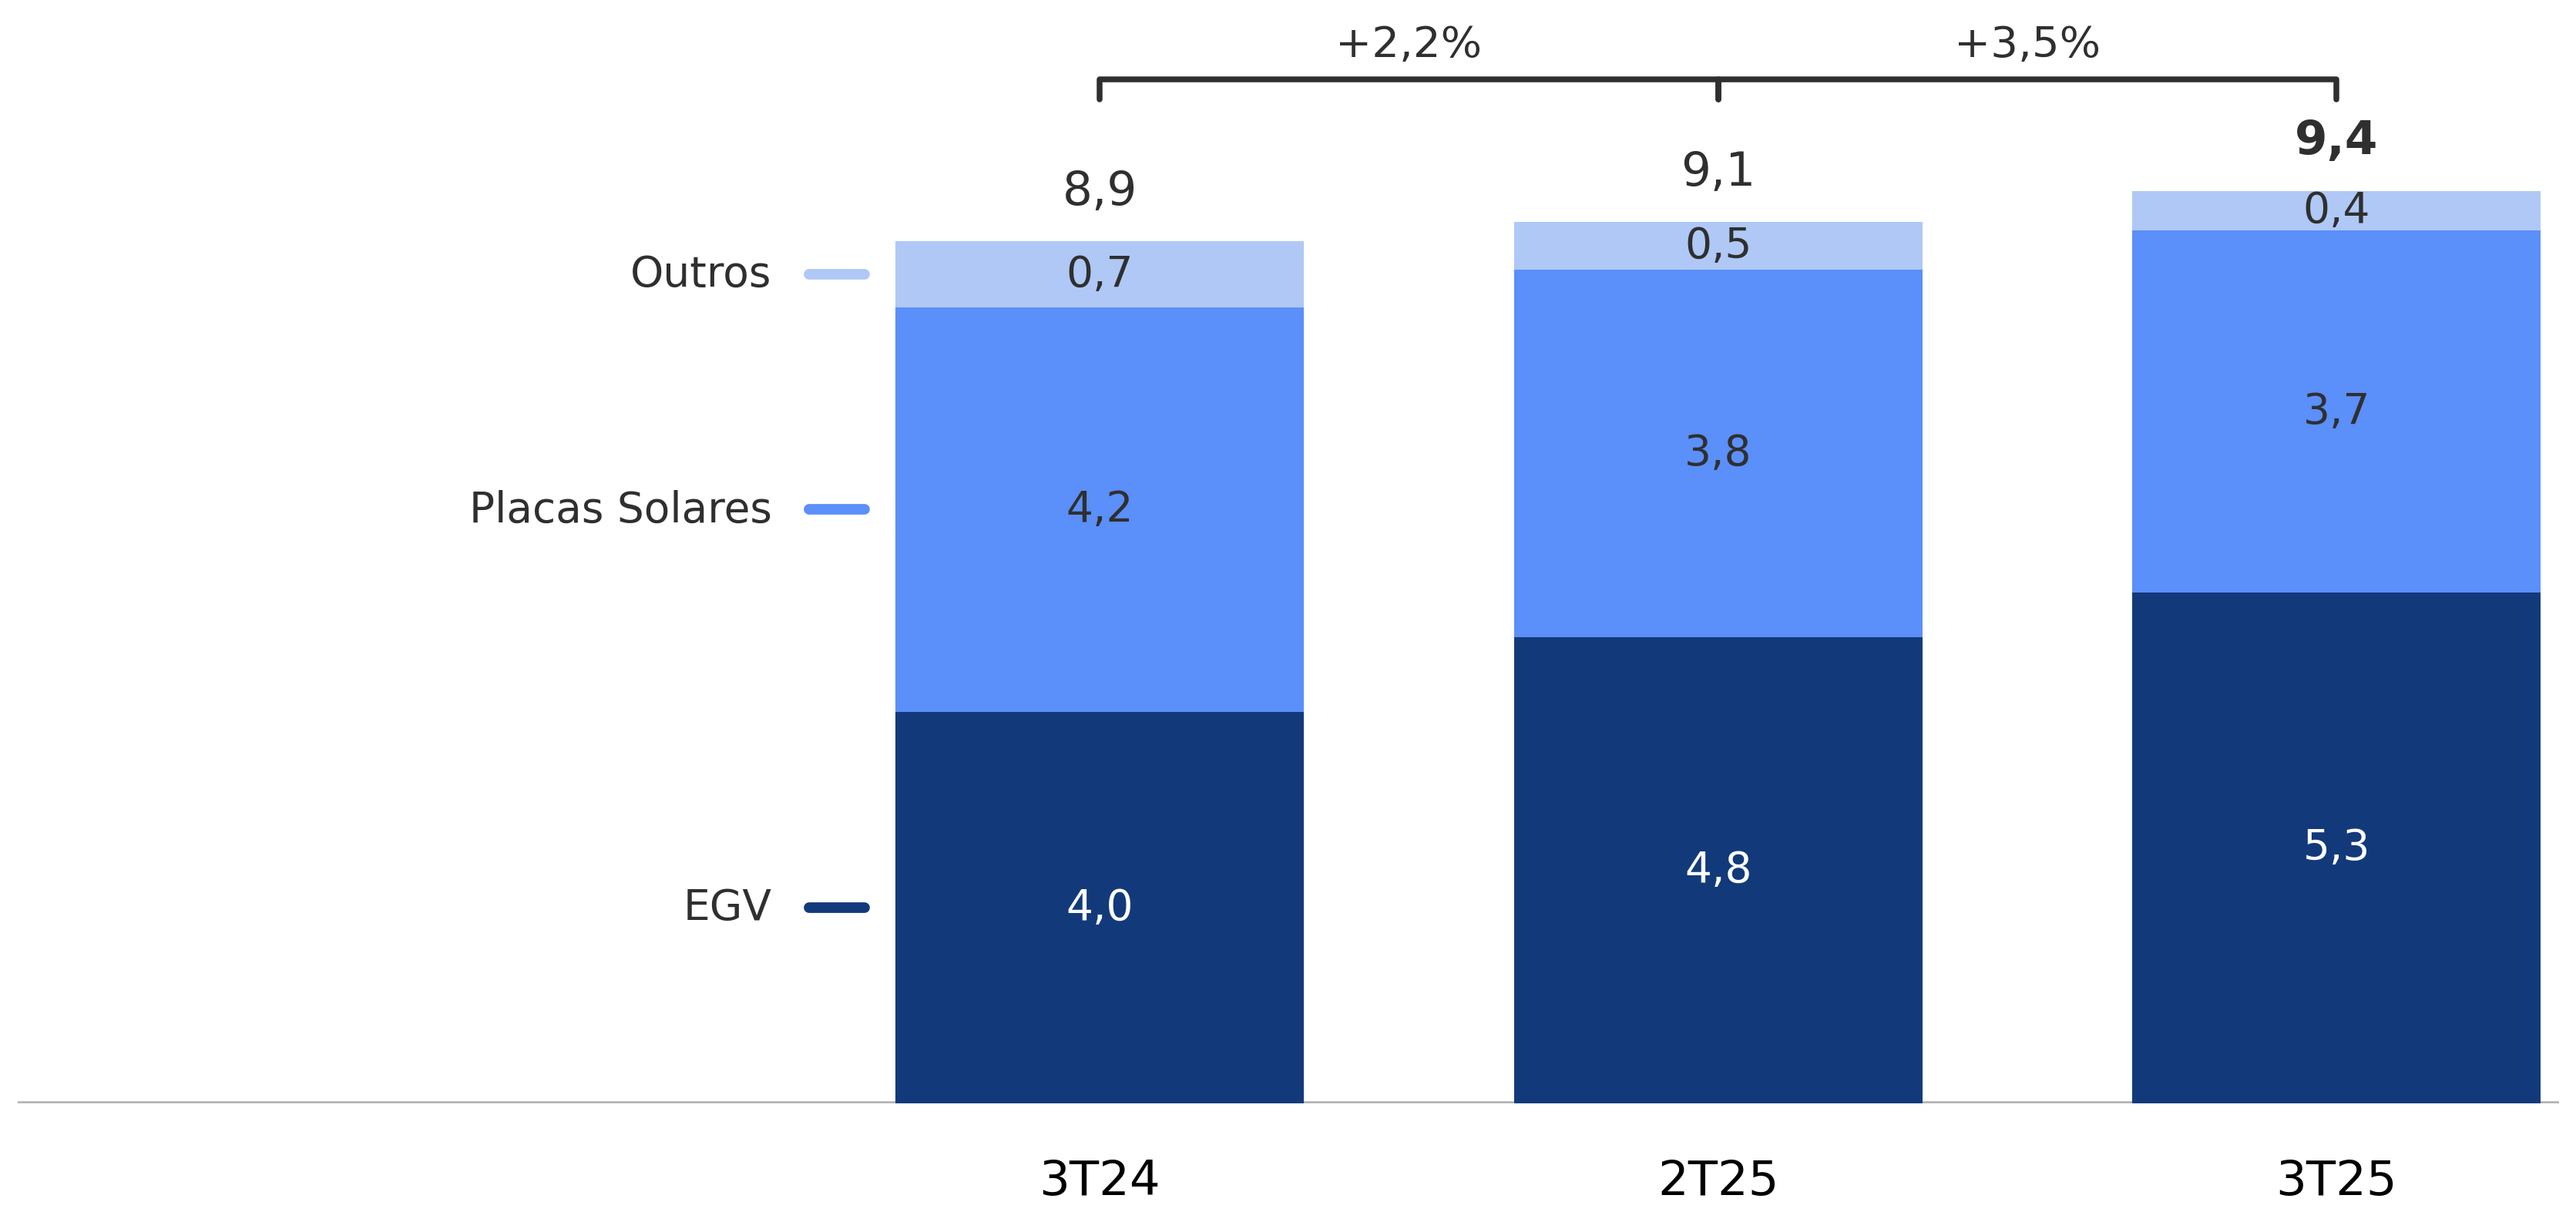
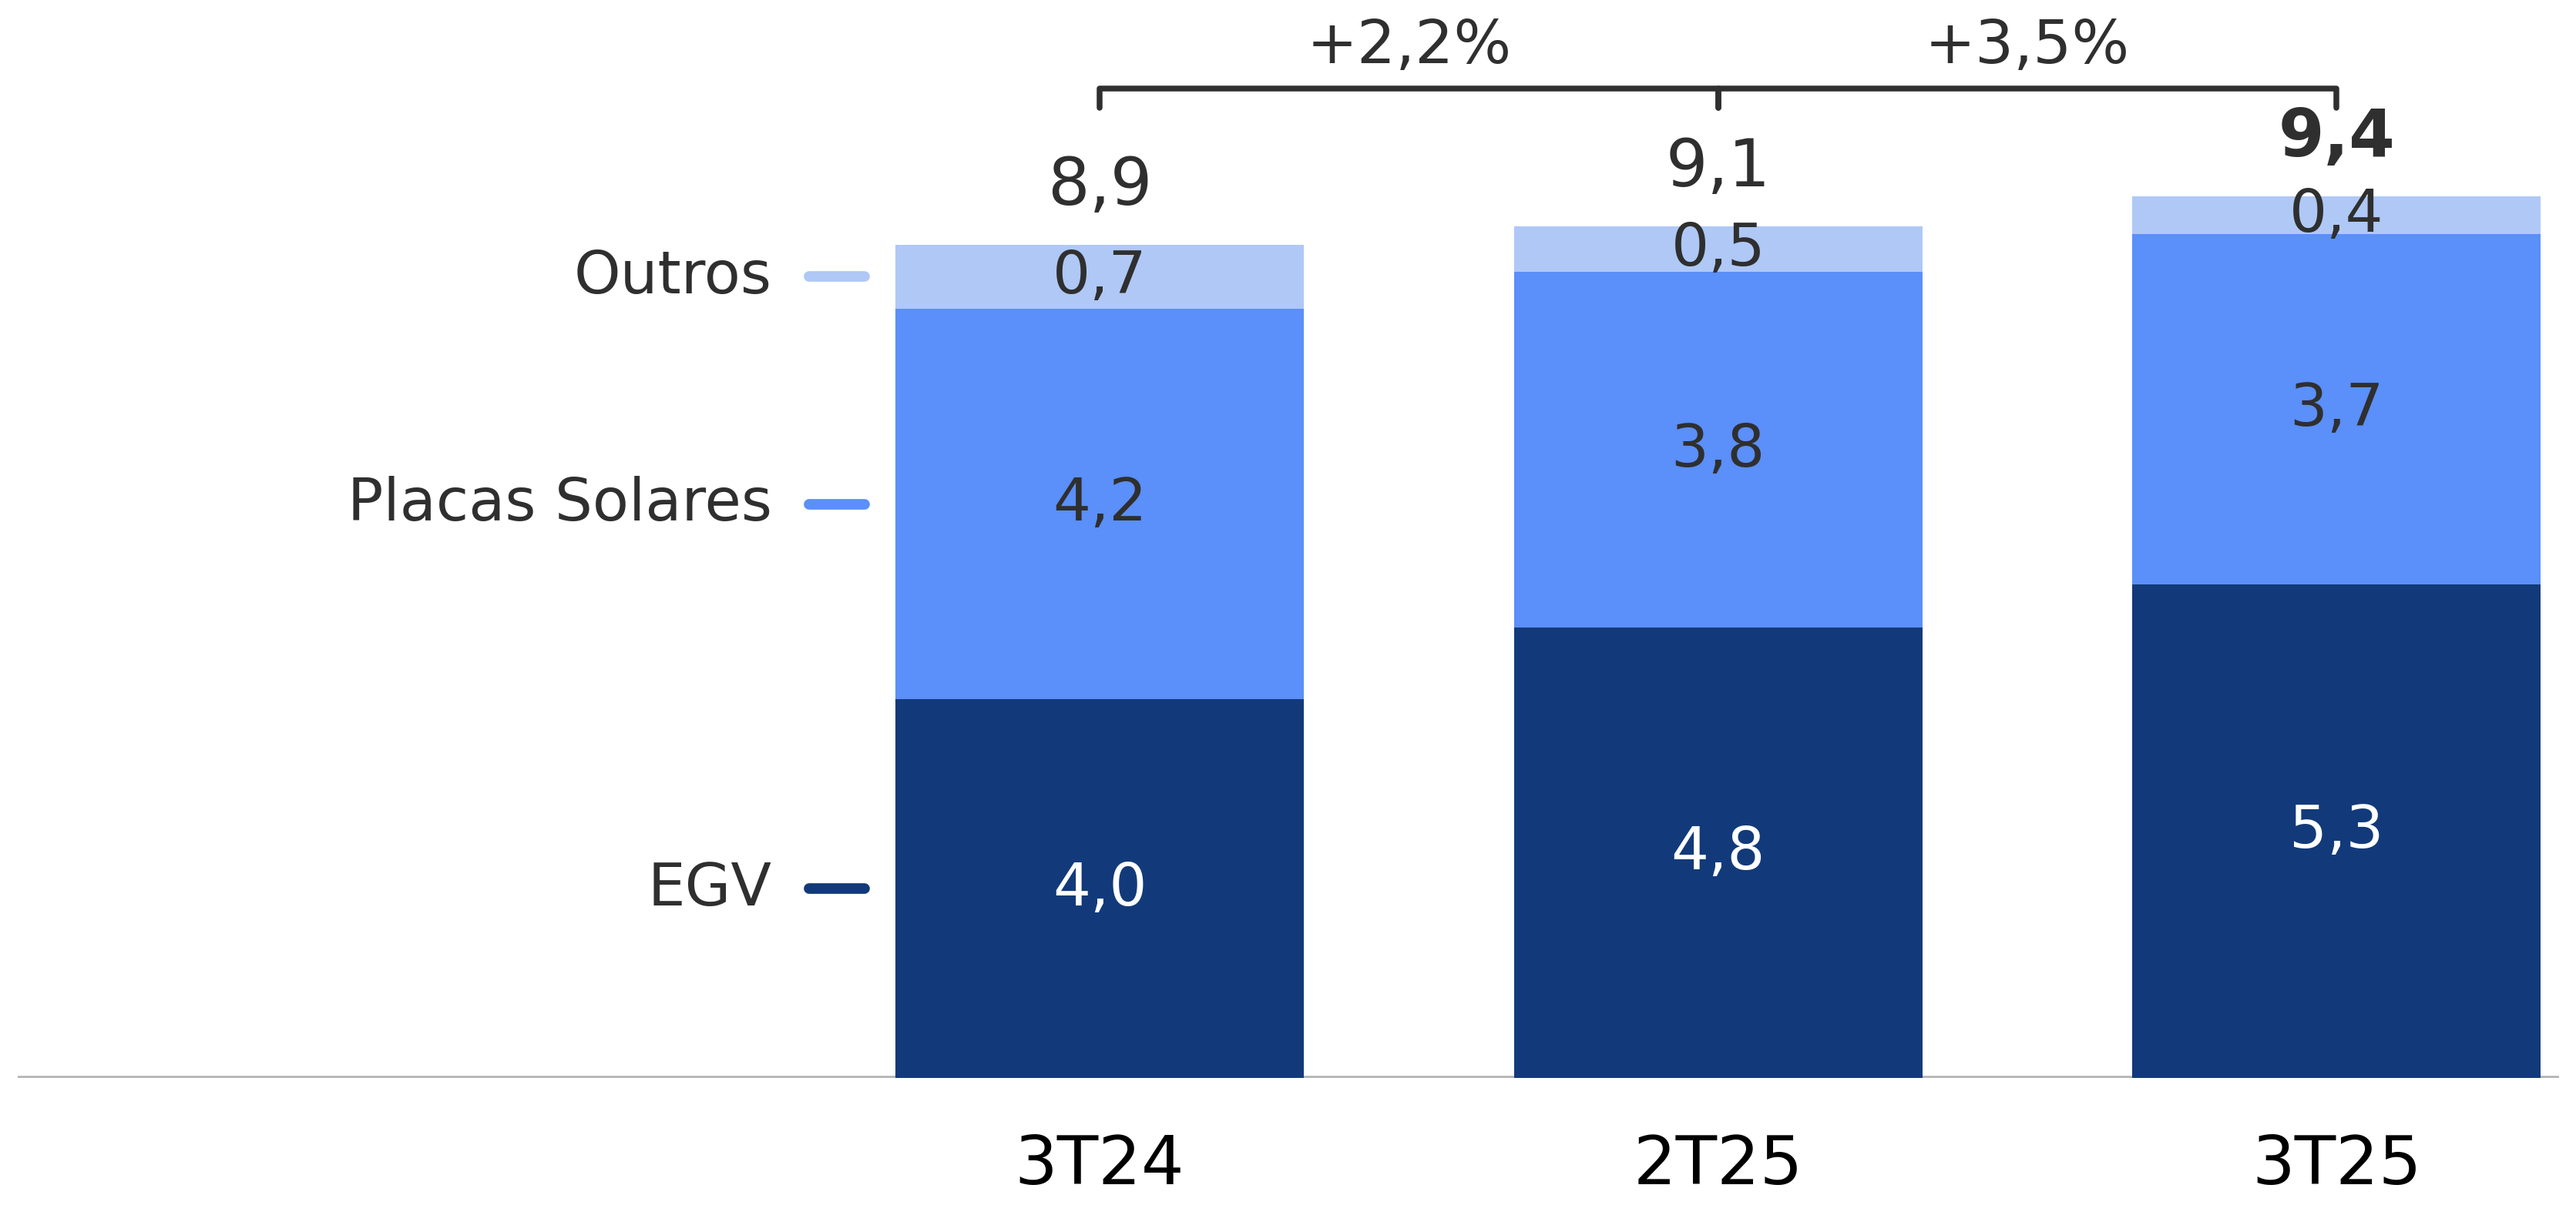
fine adjustmente slide 20

diff --git a/utils/slide20_charts.py b/utils/slide20_charts.py
@@ -21,12 +21,12 @@ SLIDE20_STACKED_SERIES = (
 SLIDE20_STACKED_FIGSIZE = (7.4, 3.5)
 SLIDE20_STACKED_BAR_SLOT = 1.0
 SLIDE20_STACKED_BAR_WIDTH = 0.66
-SLIDE20_STACKED_FONT_SCALE = 1.0
+SLIDE20_STACKED_FONT_SCALE = 1.4
 SLIDE20_SIMPLE_BAR_COLOR = "#123A7A"
 SLIDE20_SIMPLE_FIGSIZE = (6.5, 3.1)
 SLIDE20_SIMPLE_BAR_WIDTH = 0.62
 SLIDE20_SIMPLE_BAR_SLOT = 1.0
-SLIDE20_SIMPLE_FONT_SCALE = 1.0
+SLIDE20_SIMPLE_FONT_SCALE = 1.4
 
 
 def _read_range_row(ws, cell_range: str) -> list[object]:
